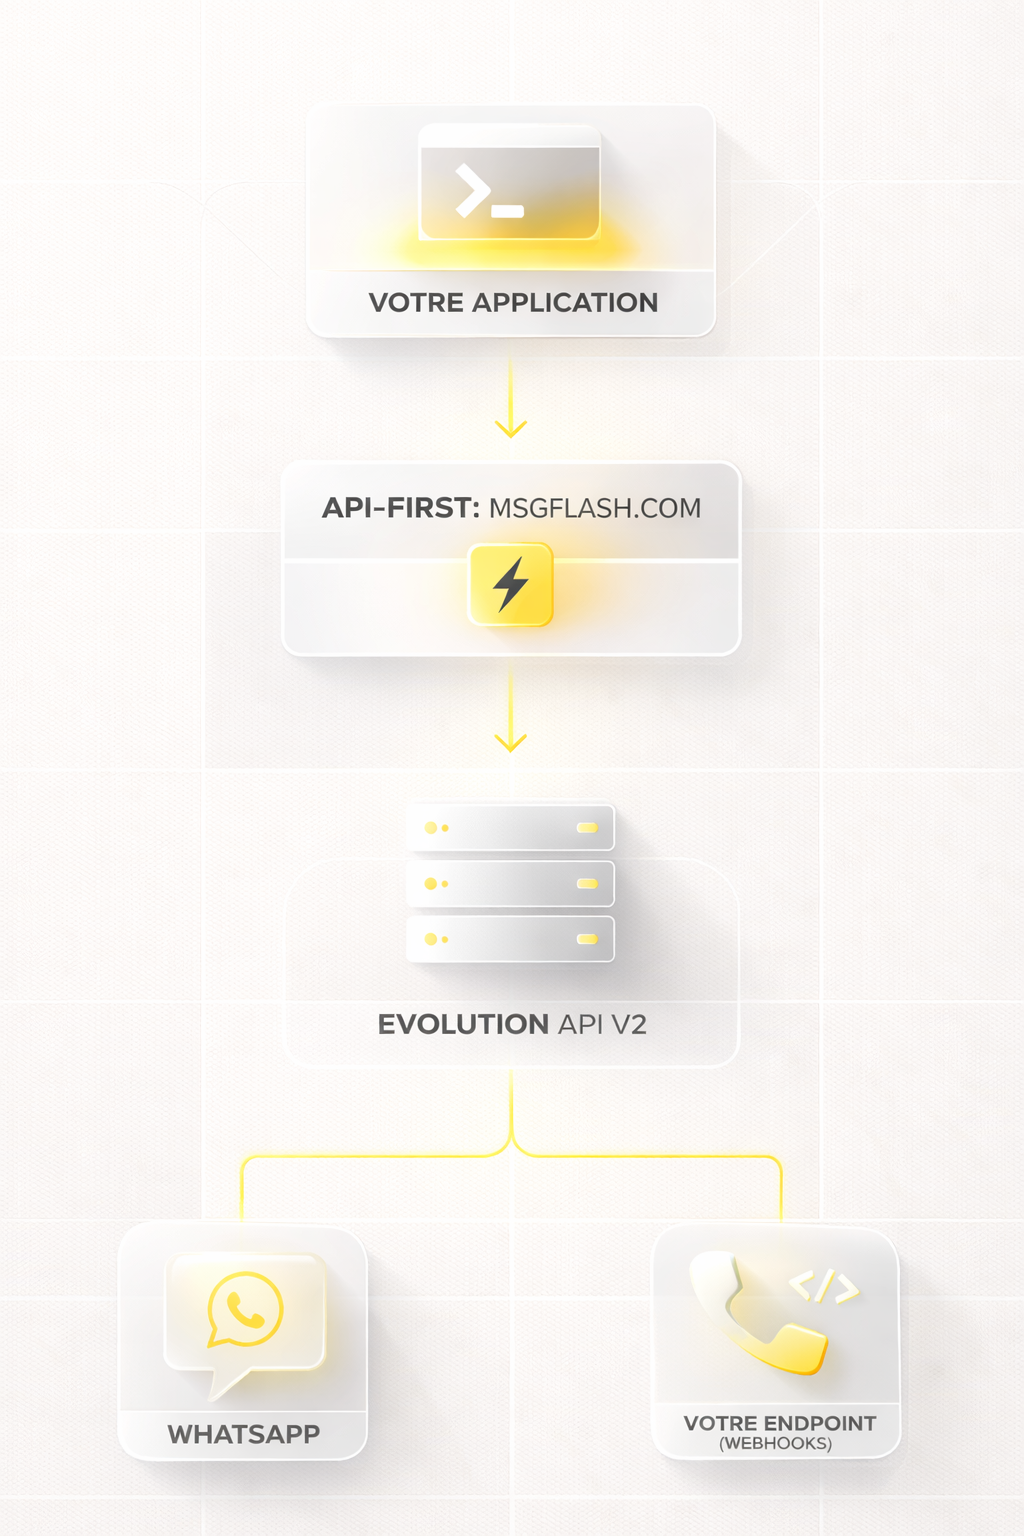
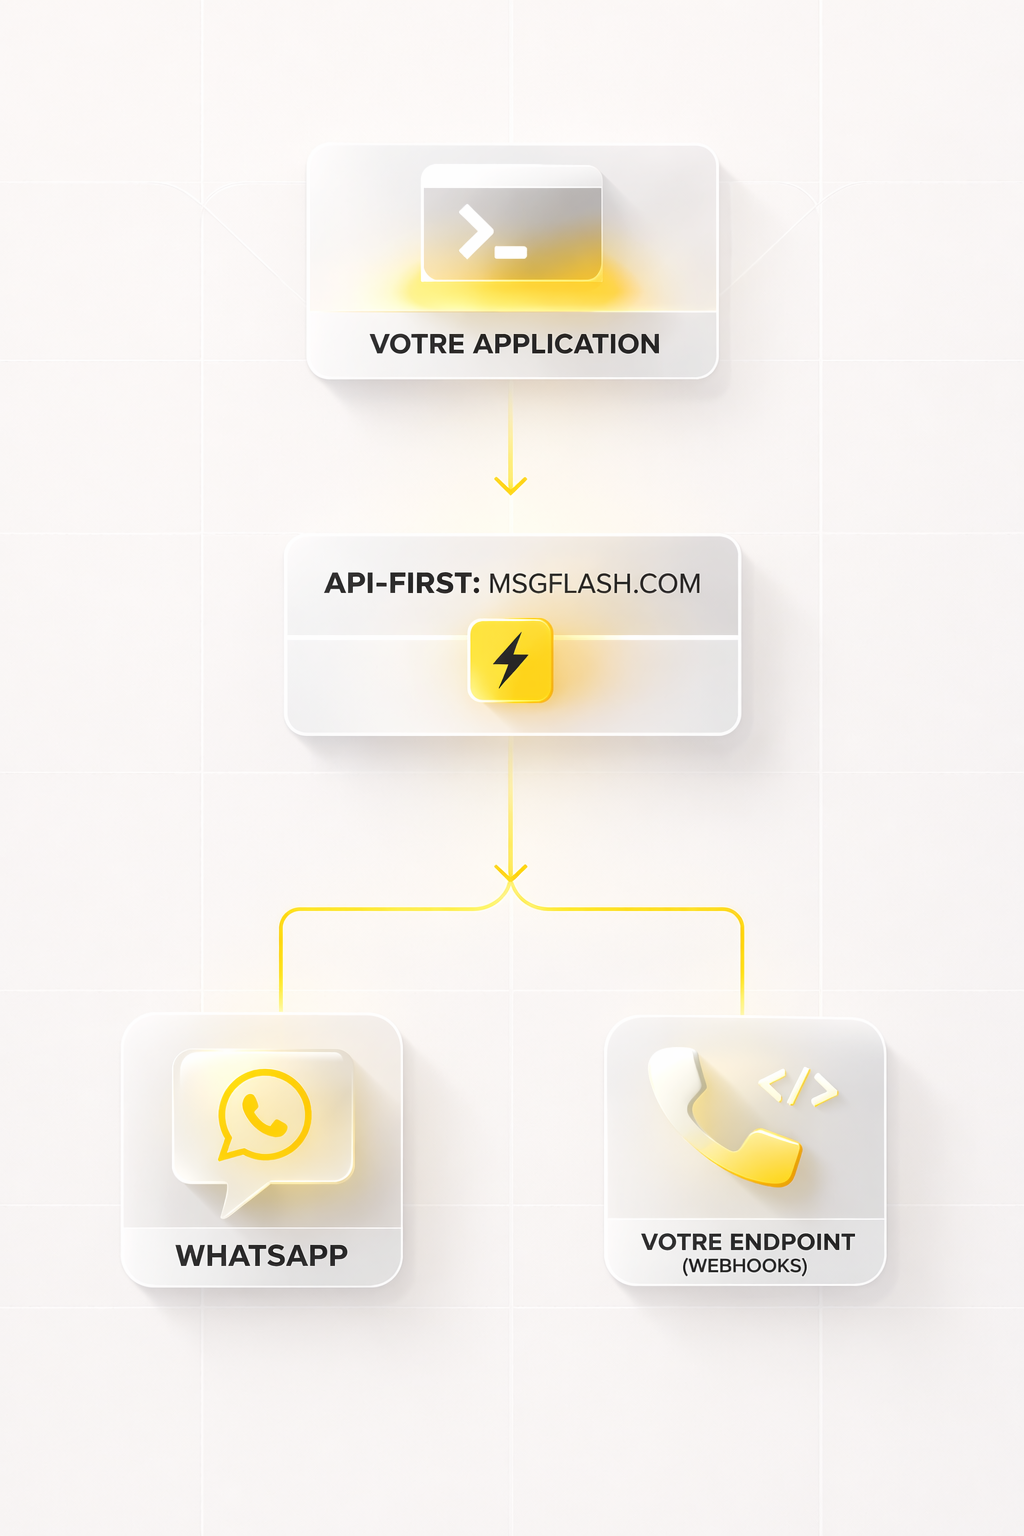
delete evolution api from docs and reduce hero section on landing page

diff --git a/apps/landing/components/sections/HeroSection.tsx b/apps/landing/components/sections/HeroSection.tsx
@@ -10,15 +10,7 @@ const HERO_CONTENT = {
   description:
     "Connectez un numéro WhatsApp, envoyez des messages, lancez des campagnes et intégrez vos outils favoris en quelques minutes.",
   primaryCta: "Commencer",
-  secondaryCta: "Voir la documentation",
-  stats: [
-    "SMS natif simple",
-    "API REST",
-    "Webhooks",
-    "Messages texte",
-    "Médias",
-    "Réponses client",
-  ],
+  secondaryCta: "Voir la documentation"
 }
 
 interface HeroSectionProps {}
@@ -55,23 +47,6 @@ export function HeroSection({}: HeroSectionProps) {
               {HERO_CONTENT.secondaryCta}
             </Button>
           </motion.div>
-        </motion.div>
-
-        <motion.div
-          variants={fadeIn}
-          initial="hidden"
-          whileInView="visible"
-          viewport={{ once: true, amount: 0.5 }}
-          className="mt-9 flex flex-wrap items-center justify-center gap-x-4 gap-y-2 border-t border-white/8 pt-5"
-        >
-          {HERO_CONTENT.stats.map((item) => (
-            <span
-              key={item}
-              className="font-(family-name:--font-poppins) text-[10px] uppercase tracking-[0.16em] text-[#7A7A7A] sm:text-[11px]"
-            >
-              {item}
-            </span>
-          ))}
         </motion.div>
       </div>
     </section>
